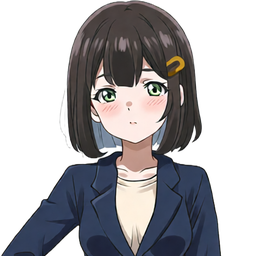
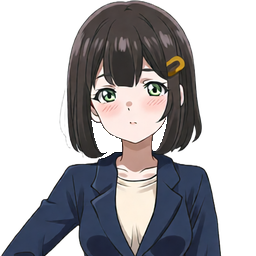
G4a-MIKU-ALPHA: adopt approved seven-image transparency cleanup (#316)
* Integrate user-edited Emi portrait and neutral eye correction

* test: refresh reviewed Emi Linux WebKit lineup digest

* art: adopt approved Miku alpha cleanup across seven assets

* test: refresh reviewed Linux Miku trio and lineup baselines

Changed region(s): [[0.3438, 0.4688, 0.5, 0.625], [0.5938, 0.4688, 0.6562, 0.5938]]

diff --git a/tests/CharacterArchiveAdoption.test.ts b/tests/CharacterArchiveAdoption.test.ts
@@ -8,12 +8,12 @@ import {
   type ProductionCharacterKey,
 } from '../src/data/characterProduction';
 
-// Original archive baseline plus Mayu v7 and the user's Emi eye correction.
+// Original archive baseline plus Mayu v7, Emi eye correction and Miku alpha cleanup.
 // Provenance: docs/reviews/MAYU_V7_INTEGRATION_2026-10-01.md
-// and docs/reviews/EMI_EYE_FIX_2026-10-01.md.
[1 lines of base64/hex data omitted]
+// docs/reviews/EMI_EYE_FIX_2026-10-01.md and MIKU_ALPHA_CLEANUP_2026-10-01.md.
[1 lines of base64/hex data omitted]
 const characterDigests: Readonly<Record<ProductionCharacterKey, string>> = {
[5 lines of base64/hex data omitted]

diff --git a/e2e/tests/visual-regression.pw.ts b/e2e/tests/visual-regression.pw.ts
@@ -24,10 +24,10 @@ const goldenOptions = {
   maxDiffPixelRatio: 0.002,
 } as const;
 
-// Linux mobile WebKit baseline after Mayu v7 and the Emi eye correction.
-// Reviewed CI attachment: run 36858443504; both attempts produced this digest.
-// Provenance: docs/reviews/EMI_EYE_FIX_2026-10-01.md.
[1 lines of base64/hex data omitted]
+// Linux mobile WebKit baseline after Mayu v7, Emi eye correction and Miku alpha cleanup.
+// Reviewed CI attachment: run 36865572790; both attempts produced this digest.
+// Provenance: docs/reviews/MIKU_ALPHA_CLEANUP_2026-10-01.md.
[1 lines of base64/hex data omitted]
 
 async function waitForVisualIdle(page: Page): Promise<void> {
   await expect.poll(async () => page.locator('img').evaluateAll((images) =>

diff --git a/docs/reviews/MIKU_ALPHA_CLEANUP_2026-10-01.md b/docs/reviews/MIKU_ALPHA_CLEANUP_2026-10-01.md
@@ -1,0 +1,89 @@
+# G4a-MIKU-ALPHA — согласованная очистка Мику
+
+Дата: 2026-10-01. Статус: review; интегрировано локально, подготовлено к отдельному PR.
+Публикация запрошена пользователем. PR строится поверх исправленного G4a-EMI
+(#315), чтобы сохранять последовательность: сначала Эми, затем Мику.
+После merge #315 базу нового PR следует переключить на main.
+Пользователь просмотрел результат на белом, сером и тёмном фоне и явно
+подтвердил: «ок. мне нравится. давай использовать их».
+
+## Принятый пакет
+
+Источник: `C:/git/UPDS-art-work/miku/mask-cleanup-v1/candidate/`.
+Маски, проверка `qa.json`, инструкции и preview сохранены рядом; архив:
+`C:/git/UPDS-art-work/miku/MIKU_ALPHA_CLEANUP_V1.zip`.
+Исторический candidate manifest не переписывается при интеграции.
+
+Заменены только семь существующих runtime PNG в `public/assets/characters/miku/`:
+
+- `rig/pose_a/frames/frame-neutral.png`
+- `rig/pose_a/frames/frame-smile.png`
+- `rig/pose_a/frames/frame-serious.png`
+- `rig/pose_a/frames/frame-surprised.png`
+- `rig/pose_a/frames/frame-embarrassed.png`
+- `poses/pose_b_pointing_sketchbook.png`
+- `medallions/portrait_neutral_256.png`
+
+До копирования SHA256 всех исходников и кандидатов сверены с `qa.json`;
+после копирования подтверждено совпадение всех семи runtime файлов с кандидатом.
+Старые runtime PNG сохранены в
+`output/art-review/miku-alpha-integration-20261001/backup/public/assets/characters/miku/`.
+Пользовательские GIMP/XCF, ready и originals не изменены.
+
+## Границы правки
+
+Детерминированные маски меняют только alpha, без генерации и перерисовки.
+У каждого PNG все декодированные RGB сохранены, включая скрытые прозрачные пиксели.
+Нет изменений alpha вне масок и на тёплых участках кожи. Одна общая маска применена
+к пяти Pose A frames; это не утверждение об идентичности исходной alpha разных эмоций.
+
+| Группа | Размер | Alpha bounds (right/bottom exclusive) | Изменённые alpha-пиксели на PNG |
+| --- | --- | --- | --- |
+| Pose A, пять эмоций | 1024×1536 | 279,47 → 744,1415 | 2664 |
+| Pose B | 1024×1536 | 257,47 → 766,1414 | 2164 |
+| Портрет | 256×256 | 0,0 → 224,256 | 813 |
+
+Bounds, camera, pivot, scale и eye-line не менялись; runtime manifest не требует правки.
+Медальон использует существующий путь, новые UI/слои не добавляются.
+
+Miku seven-asset digest:
[1 lines of base64/hex data omitted]
+Локальный 63-asset digest (включая ранее интегрированные Mayu v7 и Emi eye fix):
[1 lines of base64/hex data omitted]
+Остальные восемь character digests не меняются этой правкой.
+
+## Проверки и оставшаяся работа
+
+Локальные проверки выполнены успешно 2026-10-01:
+
+- `character:audit`: 6 тестов, включая геометрию и все package digests.
+- `assets:audit`: 63 основных character assets, 24 guest PNG; path/decode errors 0.
+- `docs:audit`: 11 тестов.
+- `check:fast`: lint и TypeScript без ошибок.
+- Полный Vitest: 148 файлов, 726 тестов пройдены.
+- Production build успешно; прежнее предупреждение bundle >500 kB остаётся.
+- Проверка whitespace затронутых tracked текстовых файлов без ошибок.
+
+GitHub CI этого пакета ещё ожидается. Не менять Linux WebKit visual baseline без
+просмотра соответствующего CI attachment.
+
+### Публикация и проверенные Linux эталоны
+
+Создан зависимый PR #316, base `local-ai/emi-eye-fix` (#315).
+Quality gate run 36865569827 passed. В Browser Gate 36865572790 Chromium passed;
+WebKit: 31 passed, два устаревших эталона — trio VN0008 и общий lineup.
+Скачаны и визуально просмотрены actual/diff trio и full-cast-lineup из Linux CI.
+Trio diff показывает согласованную очистку возле шеи Мику и небольшие различия
+растрирования текста; композиция, остальные персонажи и UI layout сохранены.
+Обе попытки trio совпадают по SHA256:
[1 lines of base64/hex data omitted]
+В качестве нового Linux snapshot скопирован именно проверенный CI actual PNG,
+не Windows snapshot. Обе попытки lineup дали SHA256
[1 lines of base64/hex data omitted]
+он становится новым fullCastLineupDigest. Assertion и maxDiffPixelRatio не меняются.
+После исправления требуется повторный Browser Gate; не считать первоначальный run успешным.
+
+Пользователь принял очистку, а не новое выражение лица: `surprised` сохраняет
+старую эмоцию и остаётся отдельным замечанием ревью. G4a и KI-005 не закрываются;
+исторический JSON ревью не переписывается. Нужен финальный просмотр всех пяти
+эмоций, Pose B и медальона в игре на светлом/тёмном фоне и телефоне.

diff --git a/docs/RELEASE_BACKLOG_RU.md b/docs/RELEASE_BACKLOG_RU.md
@@ -29,9 +29,14 @@ Status: **active release-planning source**, ANM-030B0H + ANM-030B0I + ANM-030B1B
 
 ### G4a — очередь после арт-ревью 2026-09-30
 
+2026-10-01 — `G4a-MIKU-ALPHA`: согласованная очистка прозрачности интегрирована
+во все семь PNG локально; исходники сохранены для отката. Далее игровой просмотр
+и отдельное исправление лица Мику `surprised`. Остальная очередь G4a остаётся
+активной. [Evidence](reviews/MIKU_ALPHA_CLEANUP_2026-10-01.md).
+
 2026-10-01 — `G4a-EMI`: локально заменены исправленные пользователем портрет и neutral;
 геометрия сохранена, hash обновлены. Далее gates и игровая приёмка;
-следующий пакет ручной обработки — Мику. [Evidence](reviews/EMI_EYE_FIX_2026-10-01.md).
+очистка Мику интегрирована отдельным срезом выше. [Evidence](reviews/EMI_EYE_FIX_2026-10-01.md).
 
 Все 150 изображений просмотрены: **117 approved / 33 rework / 13 blocker**.
 G4a остаётся active до исправлений, повторной пользовательской приёмки и runtime-проверки.

diff --git a/docs/ROADMAP_RU.md b/docs/ROADMAP_RU.md
@@ -2,6 +2,11 @@
 
 Technical product version: `0.26.0-dev`.
 
+2026-10-01 — `G4a-MIKU-ALPHA`: пользователь утвердил очистку прозрачности;
+все семь PNG Мику заменены локально с резервной копией. RGB, размеры, положение
+и alpha bounds сохранены. Далее проверка в игре; лицо `surprised` ещё требует
+отдельной правки, G4a не закрывается. [Evidence](reviews/MIKU_ALPHA_CLEANUP_2026-10-01.md).
+
 2026-10-01 — `G4a-EMI`: пользовательская правка зрачка интегрирована локально
 в портрет и полный neutral frame; размеры/геометрия сохранены. Статус review,
 далее CI и ручной просмотр в игре. [Evidence](reviews/EMI_EYE_FIX_2026-10-01.md).
